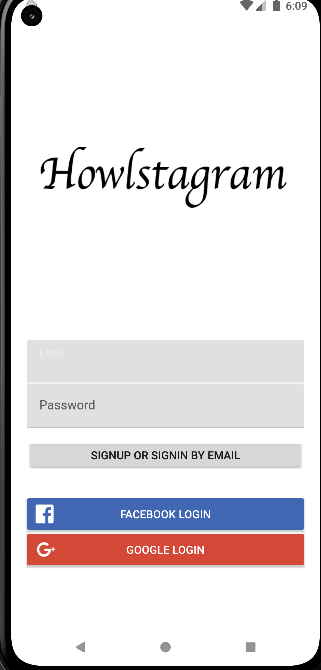
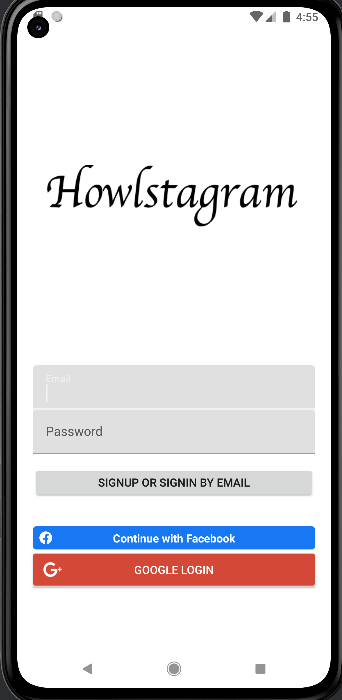
feat: 구글 로그인 update

Changed region(s): [[0.0, 0.0, 1.0, 1.0], [0.1246, 0.209, 0.9034, 0.3284]]

diff --git a/app/src/main/java/com/example/clonestagram/LoginActivity.kt b/app/src/main/java/com/example/clonestagram/LoginActivity.kt
@@ -1,7 +1,10 @@
 package com.example.clonestagram
 
+import android.content.Context
 import android.content.Intent
+import android.content.pm.PackageManager
 import android.os.Bundle
+import android.util.Log
 import android.widget.Button
 import android.widget.EditText
 import android.widget.Toast
@@ -9,29 +12,52 @@ import androidx.activity.enableEdgeToEdge
 import androidx.appcompat.app.AppCompatActivity
 import androidx.core.view.ViewCompat
 import androidx.core.view.WindowInsetsCompat
+import com.facebook.AccessToken
+import com.facebook.CallbackManager
+import com.facebook.FacebookButtonBase
+import com.facebook.FacebookCallback
+import com.facebook.FacebookException
+import com.facebook.GraphRequest
+import com.facebook.login.LoginManager
+import com.facebook.login.LoginResult
+import com.facebook.login.widget.LoginButton
 import com.google.android.gms.auth.api.Auth
 import com.google.android.gms.auth.api.signin.GoogleSignIn
 import com.google.android.gms.auth.api.signin.GoogleSignInAccount
 import com.google.android.gms.auth.api.signin.GoogleSignInClient
 import com.google.android.gms.auth.api.signin.GoogleSignInOptions
+import com.google.firebase.auth.FacebookAuthProvider
 import com.google.firebase.auth.FirebaseAuth
 import com.google.firebase.auth.FirebaseUser
 import com.google.firebase.auth.GoogleAuthProvider
+import java.security.MessageDigest
+import java.security.NoSuchAlgorithmException
+import java.util.Arrays
+import java.util.Base64.getEncoder
+import kotlin.io.encoding.Base64
 
 
 class LoginActivity : AppCompatActivity() {
     var auth: FirebaseAuth? = null
-    var googleSignInClient : GoogleSignInClient? = null
+    var googleSignInClient: GoogleSignInClient? = null
     var GOOGLE_LOGIN_CODE = 9001
+    var callbackManager: CallbackManager? = null
     override fun onCreate(savedInstanceState: Bundle?) {
         super.onCreate(savedInstanceState)
         enableEdgeToEdge()
         setContentView(R.layout.activity_login)
+
+
+        // firebase 로그인 통합 관리 object 생성
         auth = FirebaseAuth.getInstance()
+
+        // 구글 로그인 옵션
         var gso = GoogleSignInOptions.Builder(GoogleSignInOptions.DEFAULT_SIGN_IN)
             .requestIdToken("905164990116-87pkt6kncmfpgu6snc9han9v7bpidh96.apps.googleusercontent.com")
             .requestEmail()
             .build()
+
+        // 구글 로그인 클래스
         googleSignInClient = GoogleSignIn.getClient(this, gso)
 
 
@@ -46,18 +72,54 @@ class LoginActivity : AppCompatActivity() {
             signinAndSignUp()
         }
         val googleSignInButton: Button = findViewById(R.id.google_sign_inbutton)
-        googleSignInButton.setOnClickListener{
+        googleSignInButton.setOnClickListener {
             //First step
             googleLogin()
         }
+        val accessToken = AccessToken.getCurrentAccessToken()
+        val isLoggedIn = accessToken != null && !accessToken.isExpired
+        if (isLoggedIn) {
+            LoginManager.getInstance().logOut()
+        }
+
+
+        //printHashKey()
+        callbackManager = CallbackManager.Factory.create()
+        val facebookSignInButton: LoginButton = findViewById(R.id.facebook_login_button)
+        facebookSignInButton.setReadPermissions(Arrays.asList("public_profile"))
+
+
+        facebookSignInButton.registerCallback(callbackManager!!, object : FacebookCallback<LoginResult> {
+            override fun onCancel() {
+            }
+
+            override fun onError(error: FacebookException) {
+            }
+
+            override fun onSuccess(result: LoginResult) {
+                handleFacebookAccessToken(result.accessToken)
+            }
+        });
+
     }
-    fun firebaseAuthWithGoogle(account: GoogleSignInAccount?) {
-        var credential = GoogleAuthProvider.getCredential(account?.idToken, null)
+
+
+    fun firebaseAuthWithGoogle(account: GoogleSignInAccount) {
+        var credential = GoogleAuthProvider.getCredential(account.idToken, null)
         auth?.signInWithCredential(credential)
+            ?.addOnCompleteListener { task ->
+                if (task.isSuccessful) {
+                    //다음페이지 호출
+                    moveMainPage(auth?.currentUser)
+                } else {
+                    Toast.makeText(this, task.exception?.message, Toast.LENGTH_LONG).show()
+                }
+            }
     }
 
     override fun onActivityResult(requestCode: Int, resultCode: Int, data: Intent?) {
         super.onActivityResult(requestCode, resultCode, data)
+        callbackManager?.onActivityResult(resultCode, resultCode, data)
         if (requestCode == GOOGLE_LOGIN_CODE) {
             var result = data?.let { Auth.GoogleSignInApi.getSignInResultFromIntent(it) }
 
@@ -65,15 +127,50 @@ class LoginActivity : AppCompatActivity() {
                 if (result.isSuccess) {
                     var account = result.signInAccount
                     //second step
-                    firebaseAuthWithGoogle(account)
+                    firebaseAuthWithGoogle(account!!)
                 }
             }
         }
     }
-    fun googleLogin() {
-        var signInIntent =  googleSignInClient?.signInIntent
-        startActivityForResult(signInIntent!!, GOOGLE_LOGIN_CODE)
+
+    // pxoUVSMQe2u1pUektdXrQruohE4=
+    fun printHashKey() {
+        try {
+            val info = packageManager.getPackageInfo(packageName, PackageManager.GET_SIGNATURES)
+            for (signature in info.signatures) {
+                val md = MessageDigest.getInstance("SHA")
+                md.update(signature.toByteArray())
+                val hashKey = String(getEncoder().encode(md.digest()))
+                Log.i("TAG", "printHashKey() Hash Key: $hashKey")
+            }
+        } catch (e: Exception) {
+            Log.e("TAG", "error:", e)
+        }
+
     }
+
+    fun googleLogin() {
+        var signInIntent = googleSignInClient?.signInIntent
+        if (signInIntent != null) {
+            startActivityForResult(signInIntent, GOOGLE_LOGIN_CODE)
+        }
+    }
+
+
+    fun handleFacebookAccessToken(token: AccessToken?) {
+        var credential = FacebookAuthProvider.getCredential(token?.token!!)
+        auth?.signInWithCredential(credential)
+            ?.addOnCompleteListener { task ->
+                if (task.isSuccessful) {
+                    //Third step
+                    //다음페이지 호출
+                    moveMainPage(auth?.currentUser)
+                } else {
+                    Toast.makeText(this, task.exception?.message, Toast.LENGTH_LONG).show()
+                }
+            }
+    }
+
     fun moveMainPage(user: FirebaseUser?) {
         if (user != null) {
             startActivity(Intent(this, MainActivity::class.java))
@@ -105,9 +202,6 @@ class LoginActivity : AppCompatActivity() {
             if (task.isSuccessful) {
                 // Creating a user account
                 moveMainPage(task.result?.user)
-            } else if (task.exception?.message.isNullOrBlank()) {
-                // Show the error message
-                Toast.makeText(this, task.exception?.message, Toast.LENGTH_LONG).show()
             } else {
                 // Login if you have account
                 signinEmail()
